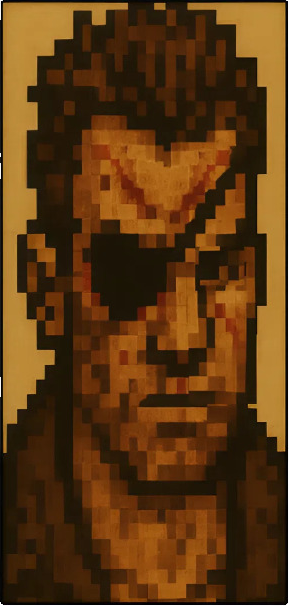
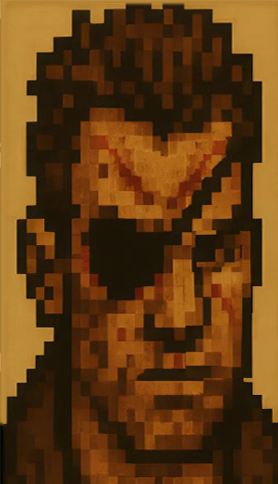
add interceptor

diff --git a/src/pages/Chapter/Chapter.jsx b/src/pages/Chapter/Chapter.jsx
@@ -21,6 +21,7 @@ import "./Chapter.scss";
 import defaultPicture from "../../assets/images/defaultPicture.webp";
 import gameMap from "../../assets/images/map.webp";
 import interceptorImage from "../../assets/images/interceptor falcon.webp";
+import interceptorPortrait from "../../assets/images/interceptor.webp";
 
 import phase1 from "../../assets/images/phase1.png";
 import phase2 from "../../assets/images/phase2.png";
@@ -716,7 +717,7 @@ const Chapter = () => {
             {renderFormattedText(getPersonalizedText(chapterData.text))}
           </section>
 
-          {/* Ligne des stats avec portrait sous Endurance */}
+          {/* Ligne des stats avec portrait sous Endurance et Interceptor sous Blindage */}
           <div className="chapter-stats-row">
             <div className="stat-with-portrait">
               <StatBox
@@ -734,15 +735,24 @@ const Chapter = () => {
                 />
               </div>
             </div>
-            <StatBox
-              label="Blindage"
-              value={
-                characterData?.caractéristiques?.blindage ??
-                characterData?.interceptor?.blindage ??
-                0
-              }
-              valueClass="stat-value-red"
-            />
+            <div className="stat-with-interceptor">
+              <StatBox
+                label="Blindage"
+                value={
+                  characterData?.caractéristiques?.blindage ??
+                  characterData?.interceptor?.blindage ??
+                  0
+                }
+                valueClass="stat-value-red"
+              />
+              <div className="chapter-interceptor-img-container">
+                <img
+                  src={interceptorPortrait}
+                  alt="Portrait de l'Interceptor"
+                  className="interceptor-portrait-img"
+                />
+              </div>
+            </div>
           </div>
 
           {chapterData.combat && (

diff --git a/src/pages/Chapter/Chapter.scss b/src/pages/Chapter/Chapter.scss
@@ -214,7 +214,7 @@
   }
 
   // ========================
-  // Ajout pour portrait sous ENDURANCE
+  // Ligne de stats avec portraits
   .chapter-stats-row {
     display: flex;
     justify-content: center;
@@ -272,6 +272,22 @@
     }
     50% {
       box-shadow: 0 0 12px 4px #ffe4a0, 0 8px 26px 6px rgba(60, 40, 25, 0.28);
+    }
+  }
+
+  // === Ajout Interceptor sous Blindage ===
+  .stat-with-interceptor {
+    display: flex;
+    flex-direction: column;
+    align-items: center;
+    .chapter-interceptor-img-container {
+      margin-top: 3rem;
+    }
+    .interceptor-portrait-img {
+      width: 18rem;
+      border: 3px solid #26251e;
+      border-radius: 4px;
+      image-rendering: pixelated;
     }
   }
   // ========================
@@ -346,6 +362,12 @@
       width: 80px;
       height: 80px;
     }
+    .interceptor-portrait-img {
+      width: 65px;
+    }
+    .chapter-interceptor-img-container {
+      margin-top: 4px;
+    }
   }
 
   @media (max-width: 480px) {
@@ -373,6 +395,9 @@
     .chapter-health-portrait::before {
       width: 58px;
       height: 58px;
+    }
+    .interceptor-portrait-img {
+      width: 48px;
     }
   }
 
